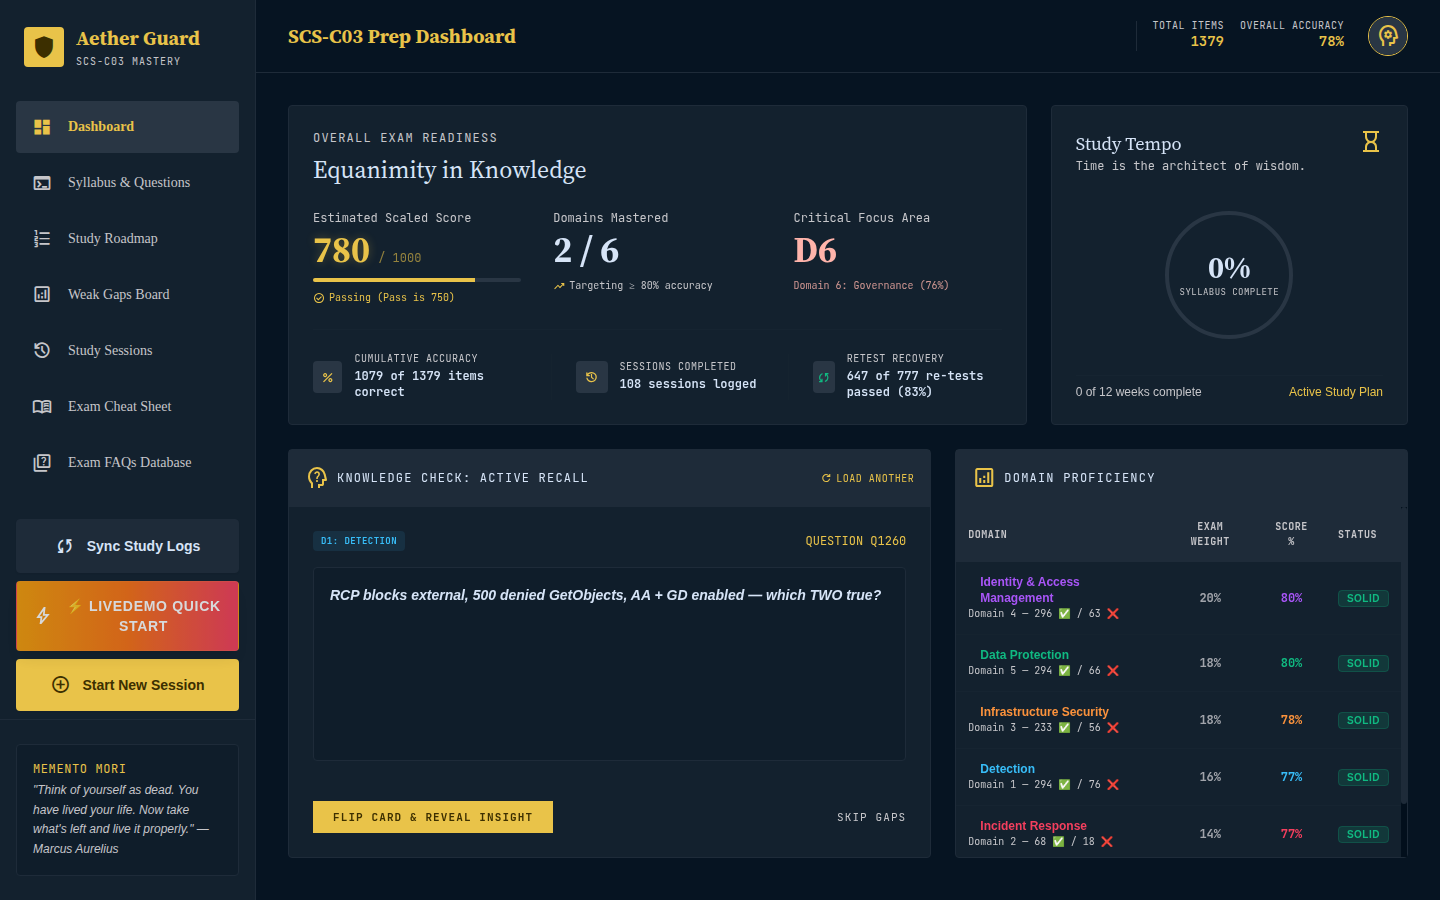
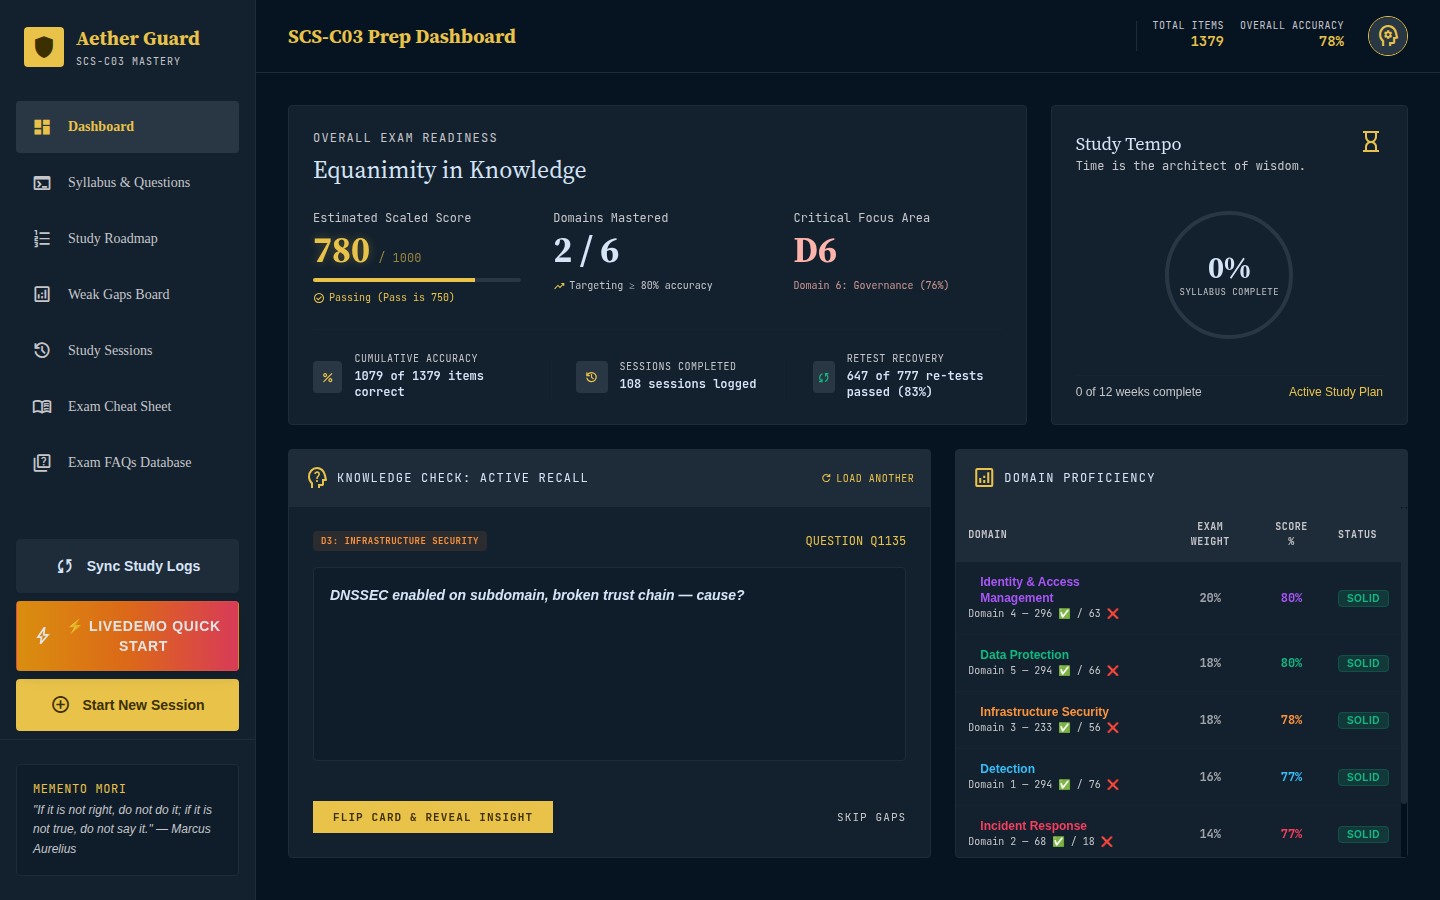
chore(tracker): auto-recompile study metrics and refresh dashboard screenshot [skip ci]

Changed region(s): [[0.0, 0.5911, 0.1875, 0.9644], [0.2188, 0.6533, 0.625, 0.6844], [0.2188, 0.5911, 0.3125, 0.6222]]

diff --git a/design/tracker_data.js b/design/tracker_data.js
@@ -345,8 +345,8 @@ const TRACKER_DATA = {
         "S93-Q933"
       ],
       "domains": [
-        "D2",
-        "D1"
+        "D1",
+        "D2"
       ],
       "count": 4,
       "level": "red"
@@ -403,8 +403,8 @@ const TRACKER_DATA = {
         "S69-Q687"
       ],
       "domains": [
-        "D5",
-        "D4"
+        "D4",
+        "D5"
       ],
       "count": 3,
       "level": "red"
@@ -432,8 +432,8 @@ const TRACKER_DATA = {
         "S52-Q495"
       ],
       "domains": [
-        "D5",
-        "D4"
+        "D4",
+        "D5"
       ],
       "count": 3,
       "level": "red"
@@ -594,8 +594,8 @@ const TRACKER_DATA = {
         "S96-Q1003"
       ],
       "domains": [
-        "D1",
-        "D4"
+        "D4",
+        "D1"
       ],
       "count": 2,
       "level": "yellow"
@@ -649,8 +649,8 @@ const TRACKER_DATA = {
         "S61-Q594"
       ],
       "domains": [
-        "D4",
         "D6",
+        "D4",
         "D5",
         "D1"
       ],
@@ -666,8 +666,8 @@ const TRACKER_DATA = {
       ],
       "domains": [
         "D3",
-        "D5",
-        "D4"
+        "D4",
+        "D5"
       ],
       "count": 2,
       "level": "yellow"
@@ -680,9 +680,9 @@ const TRACKER_DATA = {
         "S68-Q679"
       ],
       "domains": [
-        "D6",
         "D5",
-        "D4"
+        "D4",
+        "D6"
       ],
       "count": 2,
       "level": "yellow"
@@ -1624,8 +1624,8 @@ const TRACKER_DATA = {
         "S49-Q423"
       ],
       "domains": [
-        "D5",
-        "D4"
+        "D4",
+        "D5"
       ],
       "count": 1,
       "level": "yellow"
@@ -1796,8 +1796,8 @@ const TRACKER_DATA = {
         "S55-Q532"
       ],
       "domains": [
-        "D6",
         "D3",
+        "D6",
         "D1"
       ],
       "count": 1,
@@ -1810,8 +1810,8 @@ const TRACKER_DATA = {
         "S56-Q545"
       ],
       "domains": [
-        "D4",
         "D5",
+        "D4",
         "D1"
       ],
       "count": 1,
@@ -1994,8 +1994,8 @@ const TRACKER_DATA = {
         "S77-Q761"
       ],
       "domains": [
-        "D2",
-        "D4"
+        "D4",
+        "D2"
       ],
       "count": 1,
       "level": "yellow"
@@ -2080,9 +2080,9 @@ const TRACKER_DATA = {
         "S82-Q820"
       ],
       "domains": [
-        "D2",
+        "D1",
         "D4",
-        "D1"
+        "D2"
       ],
       "count": 1,
       "level": "yellow"
@@ -2106,8 +2106,8 @@ const TRACKER_DATA = {
         "S86-Q855"
       ],
       "domains": [
-        "D5",
-        "D4"
+        "D4",
+        "D5"
       ],
       "count": 1,
       "level": "yellow"
@@ -2218,8 +2218,8 @@ const TRACKER_DATA = {
         "S89-Q899"
       ],
       "domains": [
-        "D5",
-        "D4"
+        "D4",
+        "D5"
       ],
       "count": 1,
       "level": "yellow"
@@ -2477,8 +2477,8 @@ const TRACKER_DATA = {
         "S97-Q1026"
       ],
       "domains": [
-        "D5",
-        "D4"
+        "D4",
+        "D5"
       ],
       "count": 1,
       "level": "yellow"
@@ -2514,8 +2514,8 @@ const TRACKER_DATA = {
         "S97-Q1040"
       ],
       "domains": [
-        "D5",
-        "D4"
+        "D4",
+        "D5"
       ],
       "count": 1,
       "level": "yellow"
@@ -2588,8 +2588,8 @@ const TRACKER_DATA = {
         "S98-Q1079"
       ],
       "domains": [
-        "D2",
-        "D3"
+        "D3",
+        "D2"
       ],
       "count": 1,
       "level": "yellow"
@@ -2978,8 +2978,8 @@ const TRACKER_DATA = {
         "S107-Q1295"
       ],
       "domains": [
-        "D2",
-        "D3"
+        "D3",
+        "D2"
       ],
       "count": 1,
       "level": "yellow"